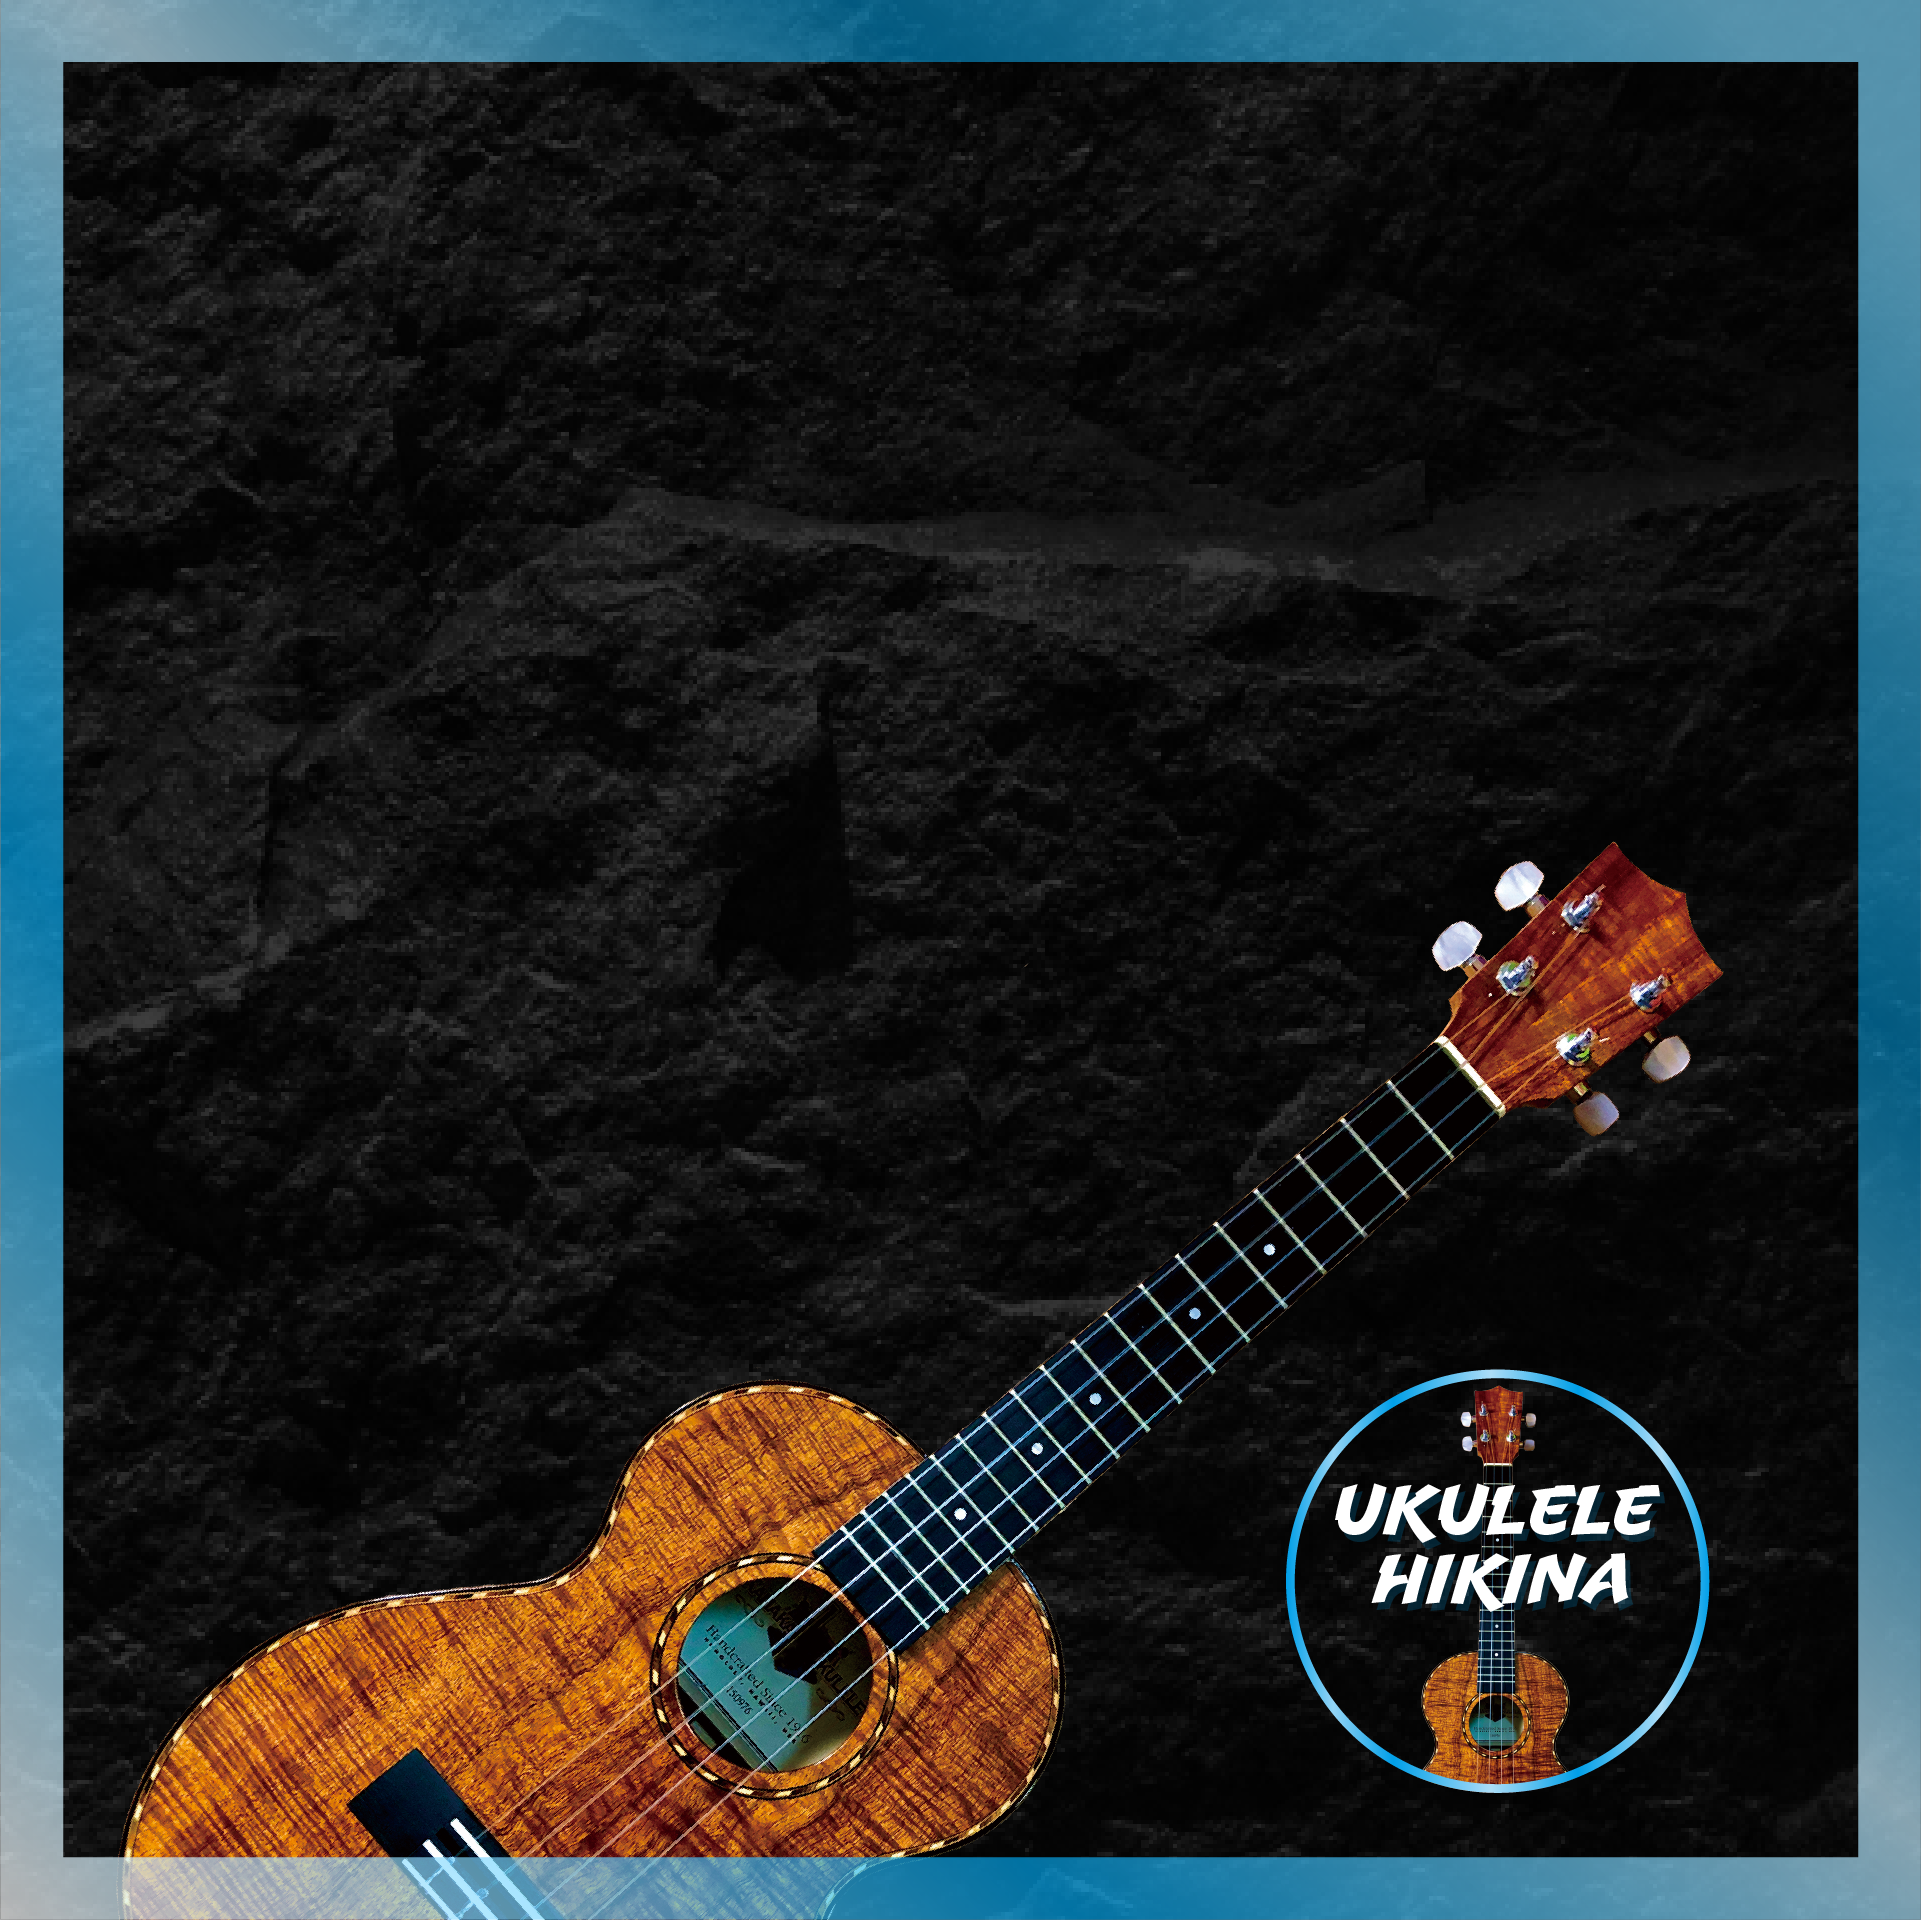
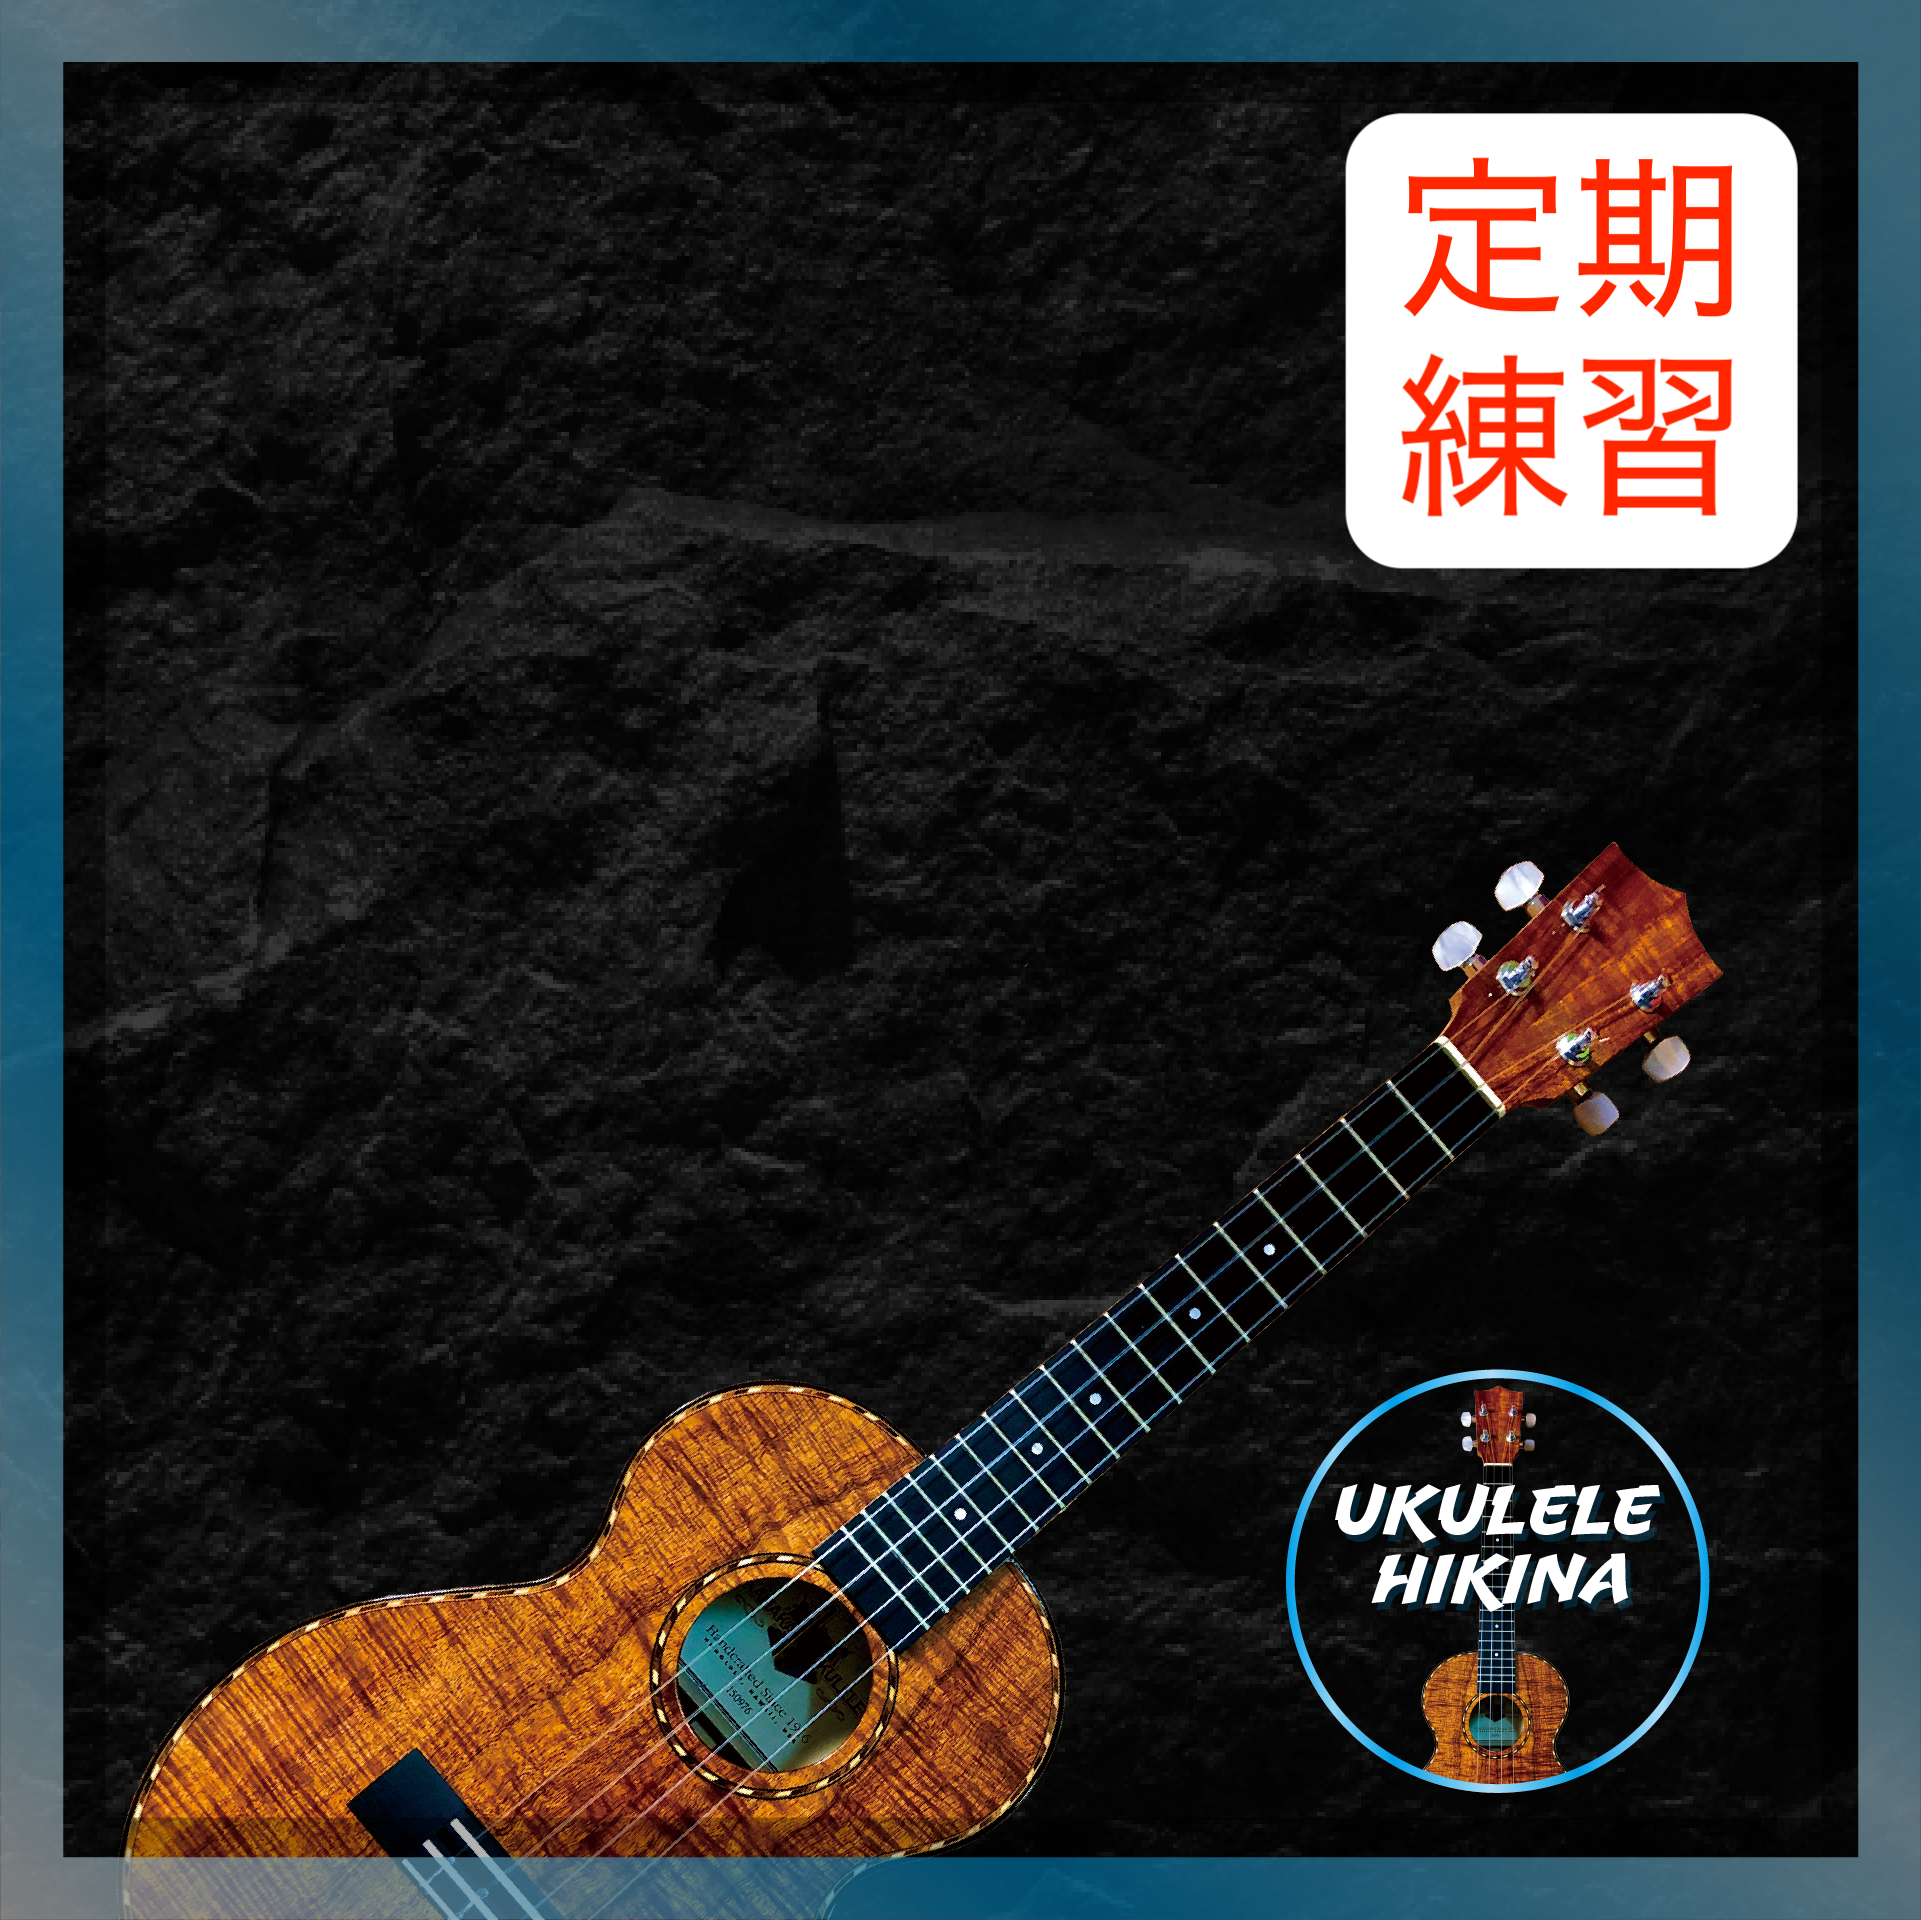
edit template image

Changed region(s): [[0.0, 0.0, 1.0, 1.0]]

diff --git a/app/util/create_image.py b/app/util/create_image.py
@@ -1,7 +1,5 @@
 from PIL import Image, ImageDraw, ImageFont
 
-
-
 def create_image(data):
     data_id = data[0]
     start_datetime = data[1]
@@ -58,36 +56,6 @@ def create_image(data):
     draw.text(time_coord, time_text, font=time_font, fill=color, stroke_width=2, stroke_fill="white")
     draw.text(title_coord, title_text, font=title_font, fill=color)
     draw.text(location_coord, location_text, font=location_font, fill=color)
-
-    def draw_rounded_rectangle(draw, xy, rad, fill):
-        x0, y0, x1, y1 = xy
-        draw.rectangle([x0, y0 + rad, x1, y1 - rad], fill=fill)
-        draw.rectangle([x0 + rad, y0, x1 - rad, y1], fill=fill)
-        draw.pieslice([x0, y0, x0 + rad * 2, y0 + rad * 2], 180, 270, fill=fill)
-        draw.pieslice([x1 - rad * 2, y1 - rad * 2, x1, y1], 0, 90, fill=fill)
-        draw.pieslice([x0, y1 - rad * 2, x0 + rad * 2, y1], 90, 180, fill=fill)
-        draw.pieslice([x1 - rad * 2, y0, x1, y0 + rad * 2], 270, 360, fill=fill)
-
-    # 角丸四角形の位置とサイズを設定
-    rect_x0, rect_y0,  = int(0.7 * w), interval_size,  # 四角形の大きさ（必要に応じて調整）
-    rect_x1, rect_y1 = rect_x0 + month_day_fontsize, rect_y0 + month_day_fontsize
-    radius = 40  # 角の丸み
-    teiki_fontsize = int((rect_x1 - rect_x0) / 2 - 40)
-    teiki_font = ImageFont.truetype(font_path, teiki_fontsize)
-
-
-    # 角丸四角形を背景画像上に描画
-    draw_rounded_rectangle(draw, [rect_x0, rect_y0, rect_x1, rect_y1], radius, 'white')
-
-    teiki_text = "定期\n練習"
-    text_width, text_height = draw.textsize(teiki_text, font=teiki_font)
-    teiki_interval = 10
-    text_x = (rect_x0 + rect_x1 - text_width - teiki_interval) / 2
-    text_y = (rect_y0 + rect_y1 - text_height - teiki_interval) / 2 - 10  # 少し上に調整
-    draw.text((text_x, text_y), "定", fill="red", font=teiki_font)
-    draw.text((text_x + teiki_fontsize + teiki_interval, text_y), "期", fill="red", font=teiki_font)
-    draw.text((text_x, text_y + teiki_fontsize + teiki_interval), "練", fill="red", font=teiki_font)
-    draw.text((text_x + teiki_fontsize + teiki_interval, text_y + teiki_fontsize + teiki_interval), "習", fill="red", font=teiki_font)
 
     # Save the edited image
     image_name = f'practice_{data_id}.jpg'
